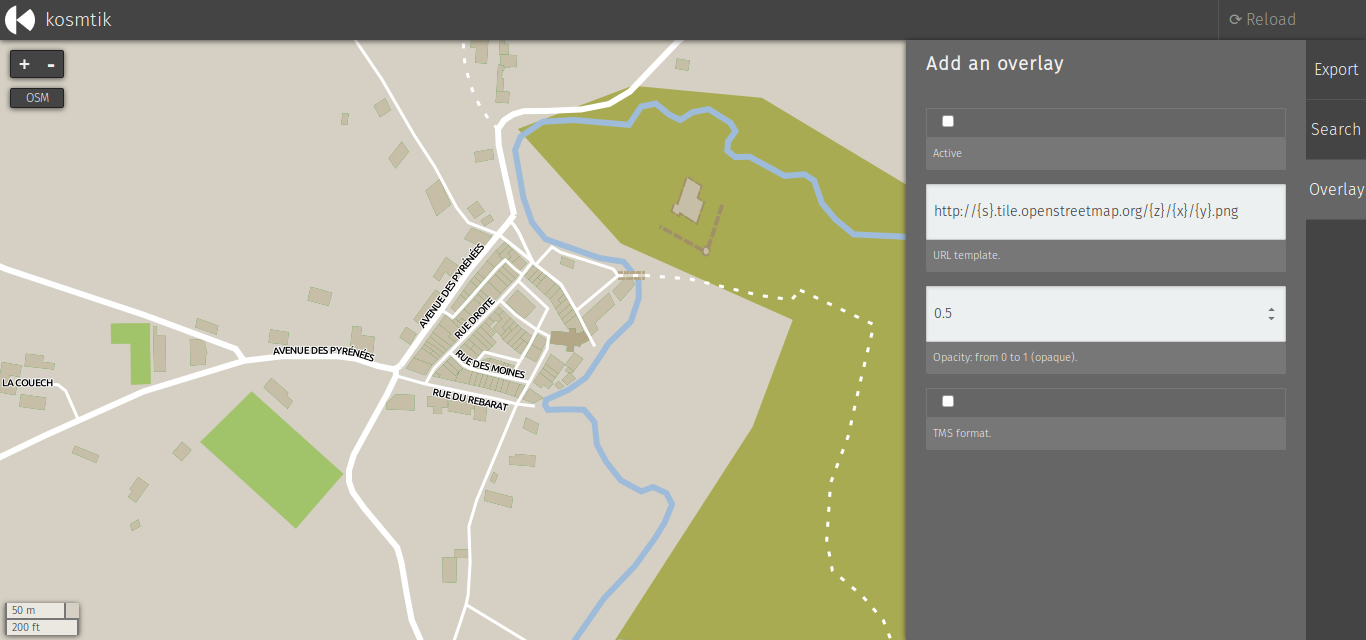
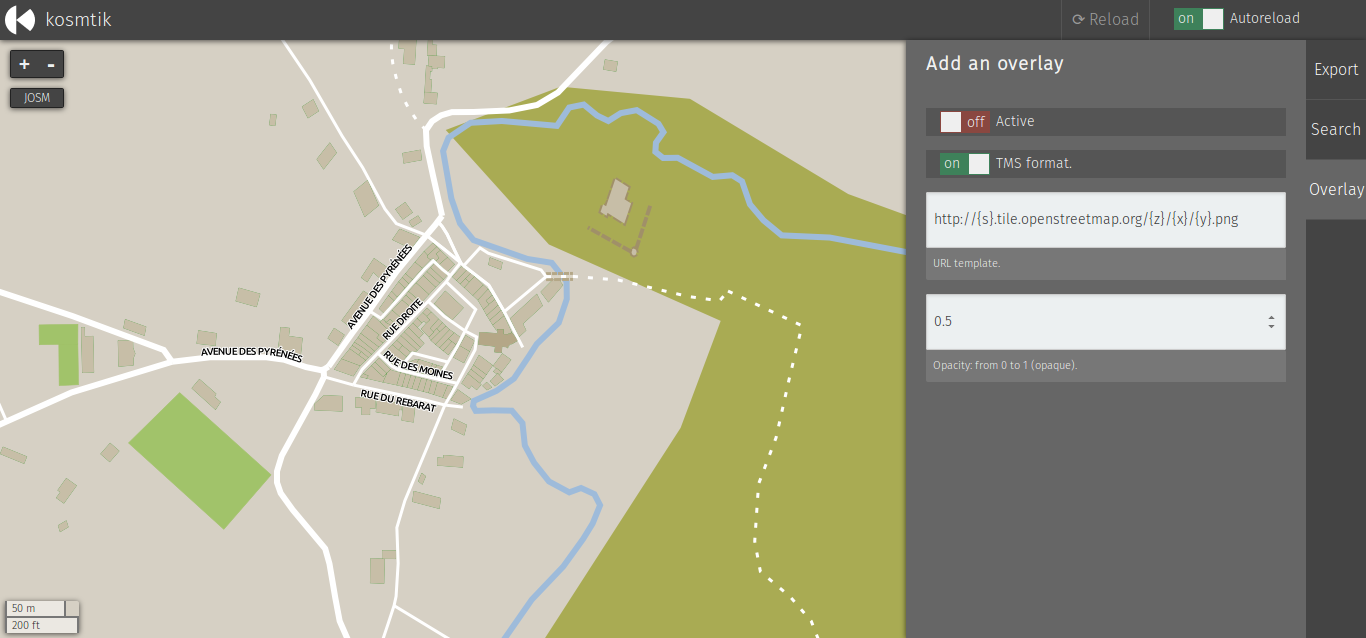
Make possible to use swith checkbox in normal forms

diff --git a/src/front/main.css b/src/front/main.css
@@ -114,7 +114,7 @@ select + .help-text {
     margin-top: 0;
 }
 .formbox {
-    border: 1px solid #777;
+    background-color: #555;
     min-height: 28px;
     line-height: 28px;
     padding-left: 14px;
@@ -196,7 +196,7 @@ input.switch:empty ~ label {
     position: relative;
     float: left;
     line-height: 1.6em;
-    text-indent: 1em;
+    text-indent: 3em;
     margin: 0.2em 0;
     cursor: pointer;
     -webkit-user-select: none;
@@ -213,7 +213,7 @@ input.switch:empty ~ label:after {
     left: 0;
     content: ' ';
     width: 3.6em;
-    background-color: #c0392b;
+    background-color: #8A4740;
     -webkit-transition: all 100ms ease-in;
     transition: all 100ms ease-in;
     color: #efefef;
@@ -231,7 +231,7 @@ input.switch:checked:empty ~ label:after {
     content: ' ';
 }
 input.switch:checked ~ label:before {
-    background-color: #27ae60;
+    background-color: #3E815A;
     content: "on";
     text-indent: 4px;
     text-align: left;

diff --git a/src/front/Core.js b/src/front/Core.js
@@ -100,6 +100,7 @@ L.Kosmtik.Switch = L.FormBuilder.CheckBox.extend({
     build: function () {
         L.FormBuilder.CheckBox.prototype.build.apply(this);
         this.input.parentNode.appendChild(this.label);
+        L.DomUtil.addClass(this.input.parentNode, 'switcher');
         this.label.setAttribute('for', this.name);
         L.DomUtil.addClass(this.input, 'switch');
         this.input.id = this.name;

diff --git a/src/front/Toolbar.css b/src/front/Toolbar.css
@@ -63,4 +63,8 @@
 }
 .toolbar ul li.autoreload .formbox {
     border: none;
+    background-color: transparent;
+}
+.toolbar ul li.autoreload label {
+    text-indent: 1em;
 }
